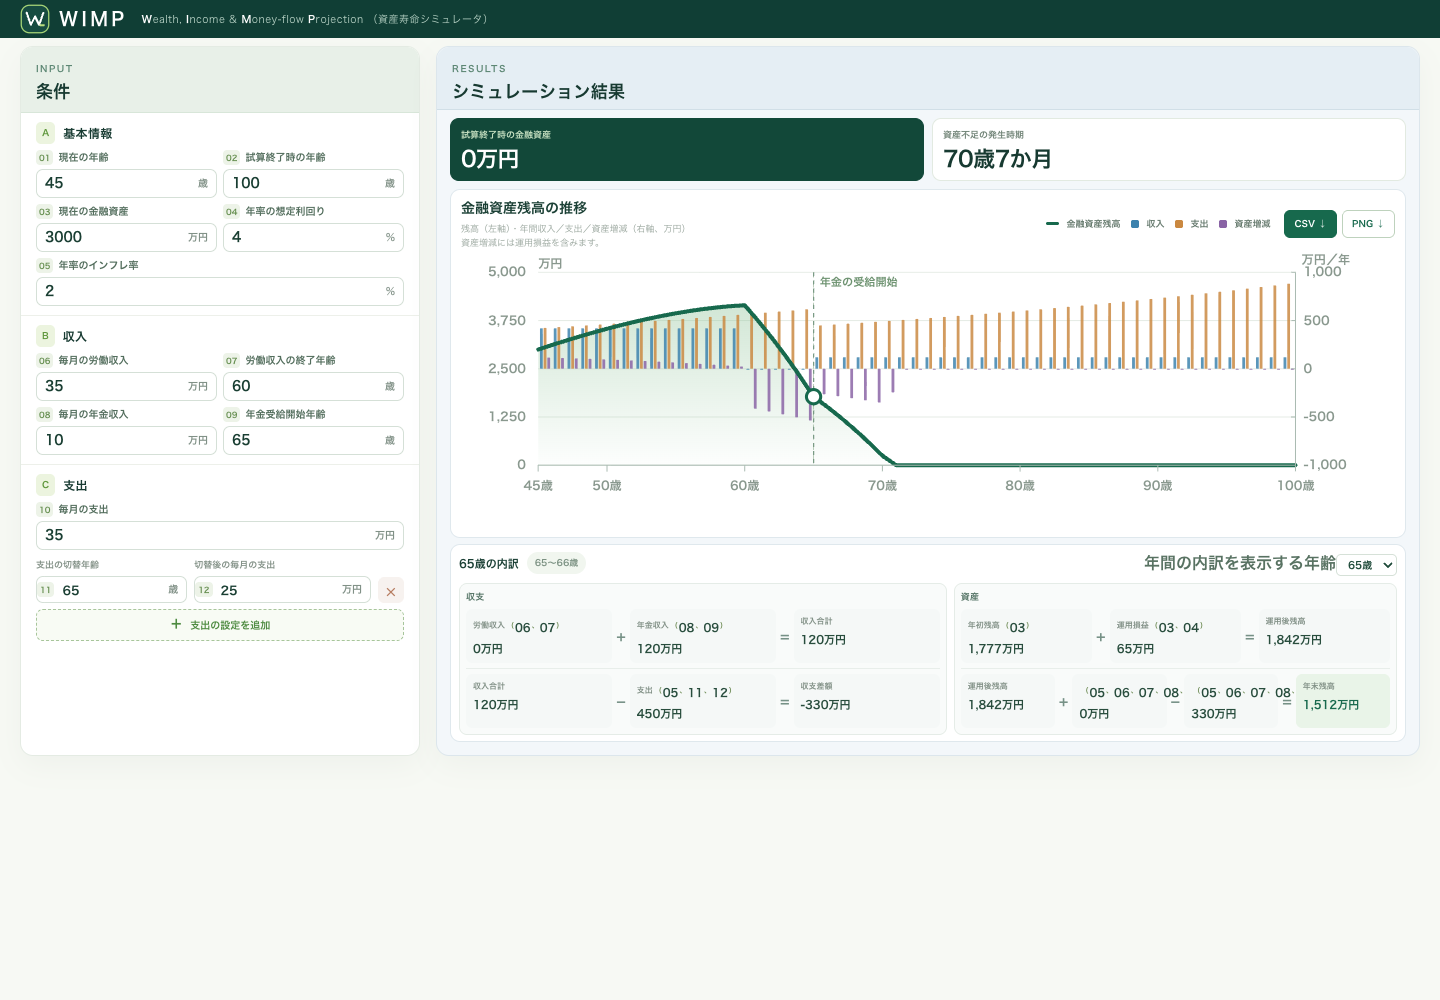
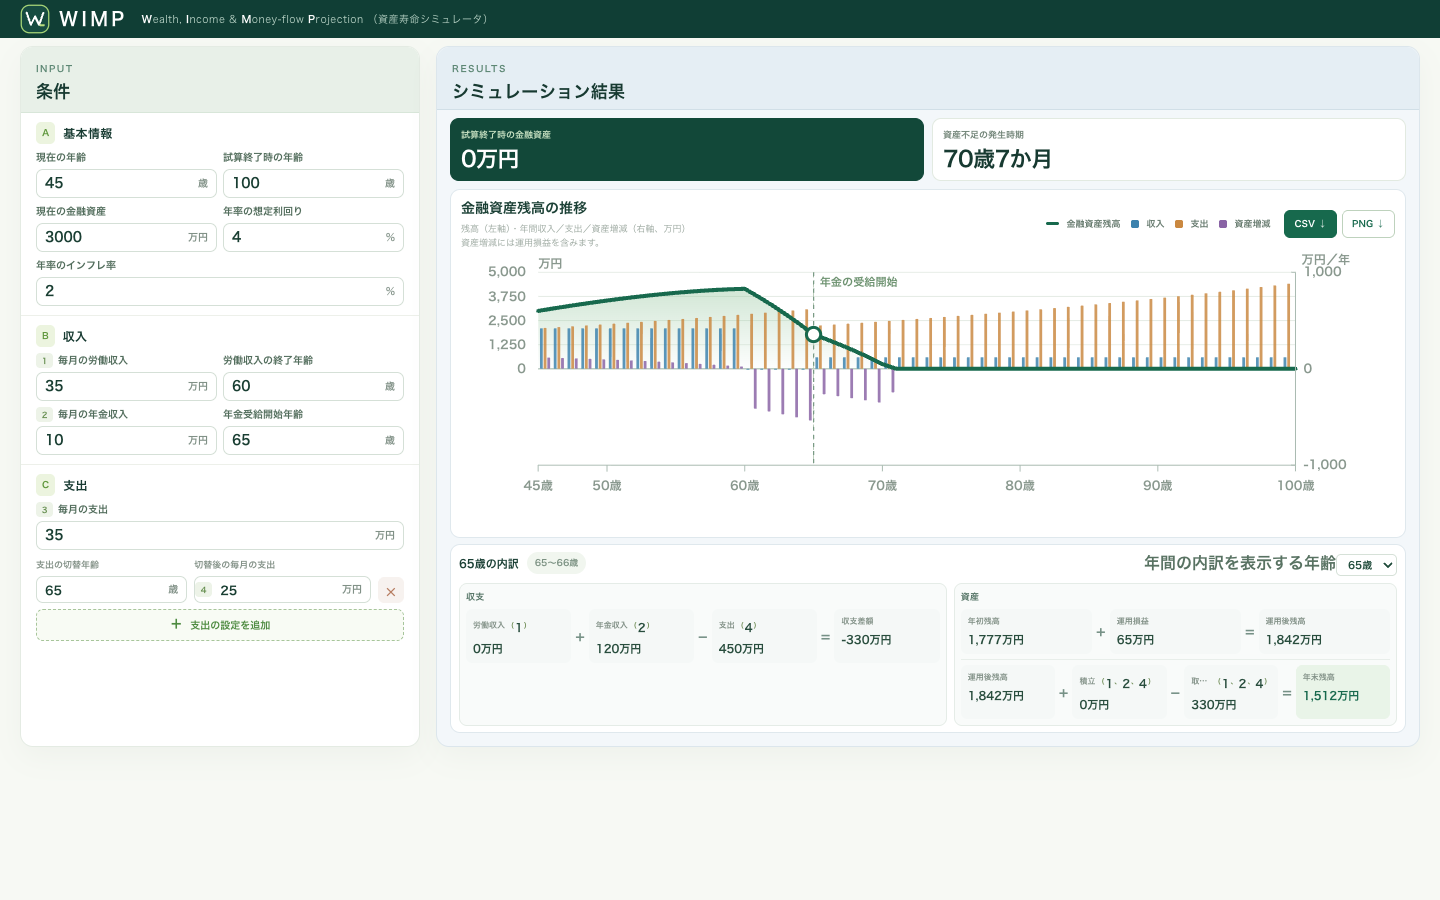
Limit condition numbers and align chart zero axes

diff --git a/index.html b/index.html
@@ -35,31 +35,31 @@
             <section class="form-section" aria-labelledby="basic-title">
               <div class="form-section-title"><span class="section-icon">A</span><h3 id="basic-title">基本情報</h3></div>
               <div class="field-grid two-col">
-                <label class="field"><span class="field-label"><span class="field-number" aria-hidden="true">01</span>現在の年齢</span><span class="input-wrap"><input name="currentAge" type="number" min="18" max="100" step="1" inputmode="numeric" required /><span class="unit">歳</span></span></label>
-                <label class="field"><span class="field-label"><span class="field-number" aria-hidden="true">02</span>試算終了時の年齢</span><span class="input-wrap"><input name="endAge" type="number" min="19" max="110" step="1" inputmode="numeric" required /><span class="unit">歳</span></span></label>
+                <label class="field"><span class="field-label">現在の年齢</span><span class="input-wrap"><input name="currentAge" type="number" min="18" max="100" step="1" inputmode="numeric" required /><span class="unit">歳</span></span></label>
+                <label class="field"><span class="field-label">試算終了時の年齢</span><span class="input-wrap"><input name="endAge" type="number" min="19" max="110" step="1" inputmode="numeric" required /><span class="unit">歳</span></span></label>
               </div>
               <div class="field-grid two-col">
-                <label class="field"><span class="field-label"><span class="field-number" aria-hidden="true">03</span>現在の金融資産</span><span class="input-wrap"><input name="startingAssets" type="number" min="0" step="0.1" inputmode="decimal" required /><span class="unit">万円</span></span></label>
-                <label class="field"><span class="field-label"><span class="field-number" aria-hidden="true">04</span>年率の想定利回り</span><span class="input-wrap"><input name="annualReturn" type="number" min="-99" max="100" step="0.1" inputmode="decimal" required /><span class="unit">%</span></span></label>
+                <label class="field"><span class="field-label">現在の金融資産</span><span class="input-wrap"><input name="startingAssets" type="number" min="0" step="0.1" inputmode="decimal" required /><span class="unit">万円</span></span></label>
+                <label class="field"><span class="field-label">年率の想定利回り</span><span class="input-wrap"><input name="annualReturn" type="number" min="-99" max="100" step="0.1" inputmode="decimal" required /><span class="unit">%</span></span></label>
               </div>
-              <label class="field"><span class="field-label"><span class="field-number" aria-hidden="true">05</span>年率のインフレ率</span><span class="input-wrap"><input name="annualInflation" type="number" min="-20" max="50" step="0.1" inputmode="decimal" required /><span class="unit">%</span></span></label>
+              <label class="field"><span class="field-label">年率のインフレ率</span><span class="input-wrap"><input name="annualInflation" type="number" min="-20" max="50" step="0.1" inputmode="decimal" required /><span class="unit">%</span></span></label>
             </section>
 
             <section class="form-section" aria-labelledby="income-title">
               <div class="form-section-title"><span class="section-icon">B</span><h3 id="income-title">収入</h3></div>
               <div class="field-grid two-col">
-                <label class="field"><span class="field-label"><span class="field-number" aria-hidden="true">06</span>毎月の労働収入</span><span class="input-wrap"><input name="monthlySalary" type="number" min="0" step="0.1" inputmode="decimal" required /><span class="unit">万円</span></span></label>
-                <label class="field"><span class="field-label"><span class="field-number" aria-hidden="true">07</span>労働収入の終了年齢</span><span class="input-wrap"><input name="retirementAge" type="number" min="18" max="110" step="1" inputmode="numeric" required /><span class="unit">歳</span></span></label>
+                <label class="field"><span class="field-label"><span class="field-number" aria-hidden="true">1</span>毎月の労働収入</span><span class="input-wrap"><input name="monthlySalary" type="number" min="0" step="0.1" inputmode="decimal" required /><span class="unit">万円</span></span></label>
+                <label class="field"><span class="field-label">労働収入の終了年齢</span><span class="input-wrap"><input name="retirementAge" type="number" min="18" max="110" step="1" inputmode="numeric" required /><span class="unit">歳</span></span></label>
               </div>
               <div class="field-grid two-col">
-                <label class="field"><span class="field-label"><span class="field-number" aria-hidden="true">08</span>毎月の年金収入</span><span class="input-wrap"><input name="monthlyPension" type="number" min="0" step="0.1" inputmode="decimal" required /><span class="unit">万円</span></span></label>
-                <label class="field"><span class="field-label"><span class="field-number" aria-hidden="true">09</span>年金受給開始年齢</span><span class="input-wrap"><input name="pensionStartAge" type="number" min="60" max="75" step="1" inputmode="numeric" required /><span class="unit">歳</span></span></label>
+                <label class="field"><span class="field-label"><span class="field-number" aria-hidden="true">2</span>毎月の年金収入</span><span class="input-wrap"><input name="monthlyPension" type="number" min="0" step="0.1" inputmode="decimal" required /><span class="unit">万円</span></span></label>
+                <label class="field"><span class="field-label">年金受給開始年齢</span><span class="input-wrap"><input name="pensionStartAge" type="number" min="60" max="75" step="1" inputmode="numeric" required /><span class="unit">歳</span></span></label>
               </div>
             </section>
 
             <section class="form-section spending-section" aria-labelledby="spending-title">
               <div class="form-section-title"><span class="section-icon">C</span><h3 id="spending-title">支出</h3></div>
-              <label class="field"><span class="field-label"><span class="field-number" aria-hidden="true">10</span>毎月の支出</span><span class="input-wrap"><input name="baseMonthlySpending" type="number" min="0" step="0.1" inputmode="decimal" required /><span class="unit">万円</span></span></label>
+              <label class="field"><span class="field-label"><span class="field-number" aria-hidden="true">3</span>毎月の支出</span><span class="input-wrap"><input name="baseMonthlySpending" type="number" min="0" step="0.1" inputmode="decimal" required /><span class="unit">万円</span></span></label>
               <div class="stage-head"><span>支出の切替年齢</span><span>切替後の毎月の支出</span></div>
               <div id="spending-stages" class="stage-list"></div>
               <button id="add-stage" class="add-button" type="button"><span aria-hidden="true">＋</span> 支出の設定を追加</button>

diff --git a/styles.css b/styles.css
@@ -85,6 +85,7 @@ a{color:inherit}
 .chart-scroll{width:100%;overflow-x:auto}
 #projection-chart{display:block;width:100%;min-width:500px;height:auto;margin-top:0;overflow:visible}
 .grid-line{stroke:#e5ebe5;stroke-width:1}
+.zero-grid-line{stroke:#b3c5ba;stroke-width:1.3}
 .axis-line,.tick-line{stroke:#aabbb2;stroke-width:1}
 .axis-label,.axis-title{fill:#89988e;font-size:12px;font-weight:600}
 .event-line{stroke:#bccdbb;stroke-width:1;stroke-dasharray:5 5}
@@ -124,5 +125,5 @@ a{color:inherit}
 .detail-item-alert{background:#fff0e9}
 .detail-item-alert strong{color:#c2582b}
 @media(max-width:1200px){.workspace{grid-template-columns:minmax(270px,310px) minmax(0,1fr);gap:12px}.result-panel{padding:0 13px 13px}.chart-tools{gap:8px}.chart-legend{gap:7px}.formula-row{gap:3px}.detail-grid{grid-template-columns:1fr}.detail-item{padding:6px 5px}}
-@media(max-width:720px){.shell,.header-inner{width:min(100% - 28px,560px)}.header-inner{height:38px}.header-caption{display:none}.workspace{grid-template-columns:1fr;gap:12px;padding-top:10px}.input-panel,.result-panel{border-radius:11px}.result-panel{padding:0 13px 13px}.result-heading{border-radius:11px 11px 0 0}.result-heading h2{font-size:17px}.metrics{gap:6px}.metric{padding:10px 8px}.metric-label{font-size:8px}.metric strong{font-size:16px}.chart-header{align-items:flex-start}.chart-tools{display:grid;justify-items:end;gap:6px}.chart-legend{font-size:8px}.detail-item strong{font-size:10px}.equation-operator{font-size:12px}}
+@media(max-width:720px){.shell,.header-inner{width:min(100% - 28px,560px)}.header-inner{height:auto;min-height:38px;padding-block:5px;gap:8px}.brand{flex:0 0 auto}.header-caption{display:block;min-width:0;font-size:9px;line-height:1.35;letter-spacing:0}.header-caption [lang=ja]{white-space:nowrap}.workspace{grid-template-columns:1fr;gap:12px;padding-top:10px}.input-panel,.result-panel{border-radius:11px}.result-panel{padding:0 13px 13px}.result-heading{border-radius:11px 11px 0 0}.result-heading h2{font-size:17px}.metrics{gap:6px}.metric{padding:10px 8px}.metric-label{font-size:8px}.metric strong{font-size:16px}.chart-header{align-items:flex-start}.chart-tools{display:grid;justify-items:end;gap:6px}.chart-legend{font-size:8px}.detail-item strong{font-size:10px}.equation-operator{font-size:12px}}
 @media(max-width:440px){.chart-header{display:block}.chart-tools{display:flex;justify-content:space-between;margin-top:8px}.chart-legend{gap:8px}.formula-row{gap:2px}.detail-item{padding:5px 4px}.detail-label-line{font-size:7px}.reference-inline{font-size:6px}.detail-item strong{font-size:9px}.equation-operator{font-size:11px}.detail-head{align-items:flex-start}.age-picker{display:grid;justify-items:end;gap:3px}}
